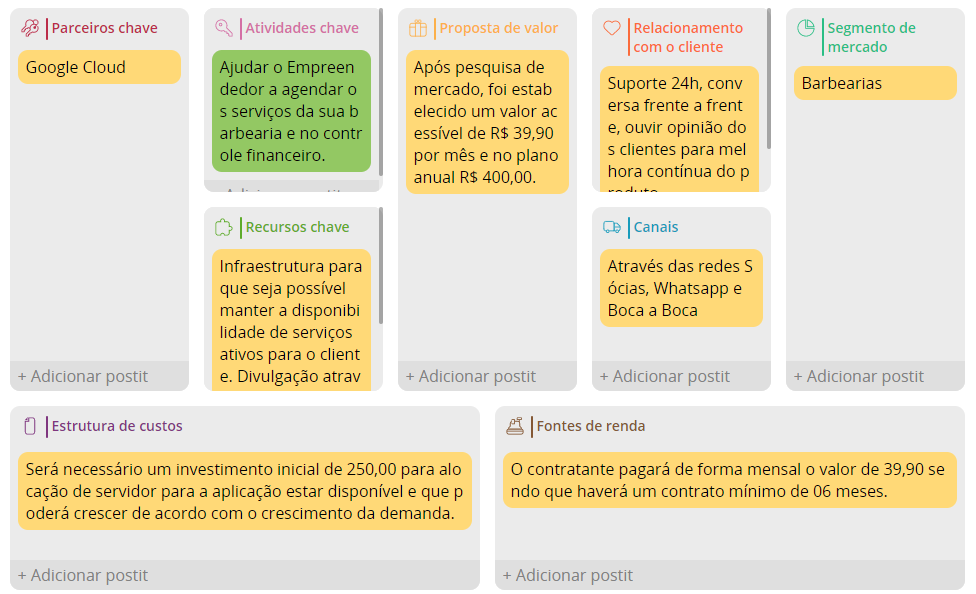
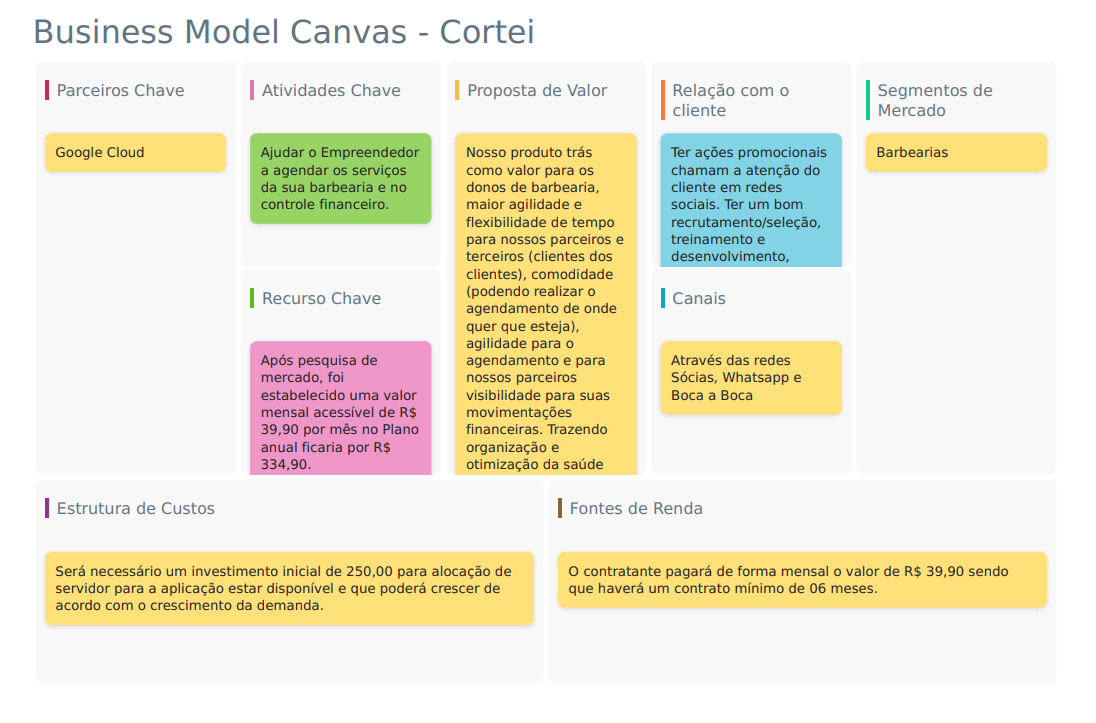
Atualização cortei

diff --git a/index.html b/index.html
@@ -44,6 +44,9 @@
                     <li class="nav-item">
                         <a class="nav-link" href="#businessModel">Business Model Canvas</a>
                     </li>
+                    <li class="nav-item">
+                        <a class="nav-link" href="#businessProgression">Progressão de Negócio</a>
+                    </li>
                 </ul>
             </div>
         </div>
@@ -57,41 +60,34 @@
         </div>      
     </header><!-- End of Page Header -->    
     
-    <!-- About Section -->
-    <section id="about">
-        <!-- Container -->
-        <div class="container">
-            <!-- About wrapper -->
-            <div class="about-wrapper">
+    <section id="about"><!-- About Section -->
+        <div class="container"><!-- Container -->
+            <div class="about-wrapper"><!-- About wrapper -->
                 <div class="after"><h1>Sobre nós</h1></div>
                 <div class="content">
                     <h5 class="title mb-3">Como surgiu o projeto Cortei?</h5>
-                    <!-- row -->
-                    <div class="row">
+                    <div class="row"><!-- row -->
                         <div class="col">
-                            <p>O Projeto surgiu da idéia de suprir a necessidade de atender aos pequenos empreendedores, mais precisamente os barbeiros de bairros.</p>
-                            <p><b>Onde na grande maioria das vezes não tem condições ao iniciarem seus negócios, de investirem em tecnologia que possa auxiliar seus processos no dia a dia.</b></p>
-                            <p><b>E qual a finalidade do projeto?</b></p>
-                            <p>A finalidade do projeto é atender os barbeiros de bairro, onde eles possam ter acesso à tecnologia para melhor atender seus clientes e seu negócio.</p>
+                            <p>O Projeto surgiu a partir de uma conversa entre cliente e barbeiro, onde o barbeiro diz sentir falta de algo mais tecnológico que o facilitasse em suas demandas diárias como: "agendamento mais dinâmico, ele não precisaria parar para fazer anotações de horários, isso sempre acaba gerando perca de tempo, e de um controle sobre suas próprias finanças, algo mais visual que ao bater o olho, já teria noção de como está sendo seu faturamento".</p>
+                            <p>Sabendo disso, fomos avaliar outros profissionais da área e tivemos a mesma base de informações, contudo surgiu a ideia de podermos criar uma aplicação que abrange todos esses pontos.</p>
+                            <!--<-p><b>Onde na grande maioria das vezes não tem condições ao iniciarem seus negócios, de investirem em tecnologia que possa auxiliar seus processos no dia a dia.</b></p>-->
                         </div>
                         <div class="col">
+                            <p><b>E qual a finalidade do projeto?</b></p>
+                            <p>A finalidade do projeto é atender profissionais de pequenas barbearias de bairro, onde eles possam ter acesso à tecnologia para melhor atender seus clientes e seu negócio.</p>
                             <p><b>E como funciona o cortei e quais suas funcionalidades?</b></p>
-                            <p>O Cortei é uma aplicação onde o barbeiro poderá disponibilizar para seus clientes um App onde seus clientes poderão realizar agendamento de serviços na sua barbearia, e também contará com um sistema financeiro para que possa gerenciar todo o fluxo de caixa de sua barbearia, desde a um simples corte de cabelo, até o gerenciamento completo do fluxo de caixa, onde mostrará seu saldo mensal, despesas e faturamento.</p>
+                            <p>O Cortei é uma aplicação web e mobile onde o barbeiro poderá disponibilizar para seus clientes um App onde poderão realizar agendamento de serviços na sua barbearia, e também contará com um sistema financeiro para que possa gerenciar todo o fluxo de caixa do seu negócio, onde mostrará seu saldo mensal, despesas e faturamento.</p>
                             <p>Quer saber mais sobre o Cortei? Então fique conosco e navegue pelas nossas páginas.</p>
                         </div>
                     </div><!-- End of Row -->                   
-                </div>
+                </div><!-- End content -->
             </div><!-- End of About Wrapper -->         
         </div>  <!-- End of Container-->        
      </section><!--End of Section -->
 
-
-    <!-- section -->
-    <section id="features">
-        <!-- Container -->
-        <div class="container">
-            <!-- row -->
-            <div class="row justify-content-between align-items-center">
+    <section id="features"><!-- section -->
+        <div class="container"><!-- Container -->
+            <div class="row justify-content-between align-items-center"><!-- row -->
                 <div class="col-md-6">
                     <div class="img-wrapper">
                         <div class="after"></div>
@@ -102,17 +98,13 @@
                     <h6 class="title mb-3">Plataforma Web para gerenciamento dos Agendamentos.</h6>
                     <p>Conforme imagem ao lado, esta é a tela de login da plataforma onde o barbeiro poderá acompanhar toda sua agenda, onde os clientes que possuem o app e agendarem um serviço na barbearia, irá aparecer nesta plataforma.</p>
                 </div>
-            </div>
-            <!-- End of Row -->
-        </div>  
-        <!-- End of Container -->
+            </div><!-- End of Row -->
+        </div><!-- End of Container -->
     </section><!-- End of Section -->
-    <!-- section -->
-    <section id="cad">
-        <!-- Container -->
-        <div class="container">
-            <!-- row -->
-            <div class="row justify-content-between align-items-center">
+
+    <section id="cad"><!-- section -->
+        <div class="container"><!-- Container -->
+            <div class="row justify-content-between align-items-center"><!-- row -->
                 <div class="col-md-6">
                     <div class="img-wrapper">
                         <div class="after"></div>
@@ -123,17 +115,13 @@
                     <h6 class="title mb-3">Cadastro do barbeiro</h6>
                     <p>Nesta tela é onde é feito o cadastro do barbeiro, para que o mesmo tenha acesso ao sistema.</p>
                 </div>
-            </div>
-            <!-- End of Row -->
-        </div>
-        <!-- End of Container -->
+            </div><!-- End of Row -->
+        </div><!-- End of Container -->
     </section><!-- End of Section -->
-    <!-- section -->
-    <section id="agenda">
-        <!-- Container -->
-        <div class="container">
-            <!-- row -->
-            <div class="row justify-content-between align-items-center">
+
+    <section id="agenda"><!-- section -->
+        <div class="container"><!-- Container -->
+            <div class="row justify-content-between align-items-center"><!-- row -->
                 <div class="col-md-6">
                     <div class="img-wrapper">
                         <div class="after"></div>
@@ -144,16 +132,13 @@
                     <h6 class="title mb-3">Agenda do barbeiro</h6>
                     <p>Ao logar na aplicação, o barbeiro será direcionado para esta tela onde o mesmo poderá ter acesso a toda sua agenda, onde irá filtrar pelo dia, caso ele deseje acessar sua agenda de determinado dia, é só clicar em uma data no calendário a sua direita e irá carregar toda a agenda com o nome dos clientes que realizaram um agendamento de serviço ou corte na sua barbearia.</p>
                 </div>
-            </div>
-            <!-- End of Row -->
-        </div>
-        <!-- End of Container -->
+            </div><!-- End of Row -->
+        </div><!-- End of Container -->
     </section><!-- End of Section -->
-    <section id="app">
-        <!-- Container -->
-        <div class="container">
-            <!-- row -->
-            <div class="row justify-content-between align-items-center">
+
+    <section id="app"><!-- Section -->
+        <div class="container"><!-- Container -->
+            <div class="row justify-content-between align-items-center"><!-- row -->
                 <div class="col-md-6">
                     <div class="img-wrapper">
                         <div class="after"></div>
@@ -165,16 +150,13 @@
                 <p>Como vocês podem ver, este é nosso lindo app</p>
                 <p>Nesta tela inicial, seu cliente poderá realizar o login no aplicativo para que possa realizar o agendamento ou serviço desejado.</p>
                 </div>
-            </div>
-            <!-- End of Row -->
-        </div>
-        <!-- End of Container -->
+            </div><!-- End of Row -->
+        </div><!-- End of Container -->
     </section><!-- End of Section -->
-    <section>
-        <!-- Container -->
-        <div class="container">
-            <!-- row -->
-            <div class="row justify-content-between align-items-center">
+
+    <section><!-- Section -->
+        <div class="container"><!-- Container -->
+            <div class="row justify-content-between align-items-center"><!-- row -->
                 <div class="col-md-6">
                     <div class="img-wrapper">
                         <div class="after"></div>
@@ -185,16 +167,13 @@
                     <h6 class="title mb-3">Tela de cadastro.</h6>
                     <p>Na tela de cadastro, seus clientes poderão realizar o cadastro no seu aplicativo e poderá realizar agendamento dos serviços conforme desejar.</p>
                 </div>
-            </div>
-            <!-- End of Row -->
-        </div>
-        <!-- End of Container -->
+            </div><!-- End of Row -->
+        </div><!-- End of Container -->
     </section><!-- End of Section -->
-    <section>
-        <!-- Container -->
-        <div class="container">
-            <!-- row -->
-            <div class="row justify-content-between align-items-center">
+
+    <section><!-- Section -->
+        <div class="container"><!-- Container -->
+            <div class="row justify-content-between align-items-center"><!-- row -->
                 <div class="col-md-6">
                     <div class="img-wrapper">
                         <div class="after"></div>
@@ -205,16 +184,13 @@
                     <h6 class="title mb-3">Lista de barbeiros</h6>
                     <p>Após seu cliente efetuar o login, irá abrir essa tela onde irá listar todos os barbeiros cadastrados na sua barbearia, poderá ser mais de 1 barbeiro listado.</p>
                 </div>
-            </div>
-            <!-- End of Row -->
-        </div>
-        <!-- End of Container -->
+            </div><!-- End of Row -->
+        </div><!-- End of Container -->
     </section><!-- End of Section -->
-    <section>
-        <!-- Container -->
-        <div class="container">
-            <!-- row -->
-            <div class="row justify-content-between align-items-center">
+
+    <section><!-- Section -->
+        <div class="container"><!-- Container -->
+            <div class="row justify-content-between align-items-center"><!-- row -->
                 <div class="col-md-6">
                     <div class="img-wrapper">
                         <div class="after"></div>
@@ -225,16 +201,13 @@
                     <h6 class="title mb-3">Agendamento</h6>
                     <p>Ao selecionar um barbeiro, irá cair nesta tela onde você irá escolher uma data e um horário para agendamento de um serviço na barbearia.</p>
                 </div>
-            </div>
-            <!-- End of Row -->
-        </div>
-        <!-- End of Container -->
+            </div><!-- End of Row -->
+        </div><!-- End of Container -->
     </section><!-- End of Section -->
-    <section id="financeiro">
-        <!-- Container -->
-        <div class="container">
-            <!-- row -->
-            <div class="row justify-content-between align-items-center">
+
+    <section id="financeiro"><!-- Section -->
+        <div class="container"><!-- Container -->
+            <div class="row justify-content-between align-items-center"><!-- row -->
                 <div class="col-md-6">
                     <div class="img-wrapper">
                         <div class="after"></div>
@@ -245,16 +218,13 @@
                     <h6 class="title mb-3">Sistema financeiro</h6>
                     <p>O sistema financeiro do Cortei foi implementado para que os donos de barbearia tenham um controle financeiro melhor do que antigamente como o papel e a caneta, é um sistema onde o dono da barbearia pode cadastrar as informações sobre produtos, serviços e débitos periódicos para que ele tenha a maior tranquilidade no fluxo de caixa e sendo assim poder investir e saber os seus gastos trazendo assim uma boa saúde financeira.</p>
                      </div>
-            </div>
-            <!-- End of Row -->
-        </div>
-        <!-- End of Container -->
+            </div><!-- End of Row -->
+        </div><!-- End of Container -->
     </section><!-- End of Section -->
-    <section>
-        <!-- Container -->
-        <div class="container">
-            <!-- row -->
-            <div class="row justify-content-between align-items-center">
+
+    <section><!-- Section -->
+        <div class="container"><!-- Container -->
+            <div class="row justify-content-between align-items-center"><!-- row -->
                 <div class="col-md-6">
                     <div class="img-wrapper">
                         <div class="after"></div>
@@ -265,16 +235,13 @@
                     <h6 class="title mb-3">Período financeiro</h6>
                     <p>O período financeiro refere-se ao tempo que deseja ser cadastrado, podendo ser programado da melhor maneira que convem. Ex.: quisenal, mensal, bimestral entre outros períodos.</p>
                 </div>
-            </div>
-            <!-- End of Row -->
-        </div>
-        <!-- End of Container -->
+            </div><!-- End of Row -->
+        </div><!-- End of Container -->
     </section><!-- End of Section -->
-    <section>
-        <!-- Container -->
-        <div class="container">
-            <!-- row -->
-            <div class="row justify-content-between align-items-center">
+
+    <section><!-- Section -->
+        <div class="container"><!-- Container -->
+            <div class="row justify-content-between align-items-center"><!-- row -->
                 <div class="col-md-6">
                     <div class="img-wrapper">
                         <div class="after"></div>
@@ -285,16 +252,13 @@
                     <h6 class="title mb-3">Carteira</h6>
                     <p>O cadastro da carteira pode ser feito opcionalmente, pode-se cadastrar desde um cartão de crédito, até uma conta bancária. Informações relevantes da conta e ou cartão de crédito ajudarão ao usuário a melhor se programar, frente as despesas futuras.</p>
                 </div>
-            </div>
-            <!-- End of Row -->
-        </div>
-        <!-- End of Container -->
+            </div><!-- End of Row -->
+        </div><!-- End of Container -->
     </section><!-- End of Section -->
-    <section>
-        <!-- Container -->
-        <div class="container">
-            <!-- row -->
-            <div class="row justify-content-between align-items-center">
+
+    <section><!-- Sectoion -->
+        <div class="container"><!-- Container -->
+            <div class="row justify-content-between align-items-center"><!-- row -->
                 <div class="col-md-6">
                     <div class="img-wrapper">
                         <div class="after"></div>
@@ -305,16 +269,14 @@
                     <h6 class="title mb-3">Movimentos do período</h6>
                     <p>Toda movimentação e histórico de pagamento será exibido para o usuário, ajudando-o visualmente de maneira detalhada à entender toda movimentação ocorrida do período cadastrado.</p>
                 </div>
-            </div>
-            <!-- End of Row -->
-        </div>
-        <!-- End of Container -->
+            </div><!-- End of Row -->
+        </div><!-- End of Container -->
     </section><!-- End of Section -->
-    <section id="businessModel">
-        <!-- Container -->
-        <div class="container">
-            <!-- row -->
-            <div class="row justify-content-between align-items-center">
+
+
+    <section id="businessModel"><!-- Section -->
+        <div class="container"><!-- Container -->
+            <div class="row justify-content-between align-items-center"><!-- row -->
                 <div class="col-md-6">
                     <div class="img-wrapper">
                         <div class="after"></div>
@@ -323,14 +285,30 @@
                 </div>
                 <div class="col-md-5">
                     <h6 class="title mb-3">Business Model Canvas</h6>
+                    <p>Nosso produto trás como valor para os donos de barbearia, maior agilidade e flexibilidade de tempo para nossos parceiros e terceiros (clientes dos nossos clientes), comodidade (podendo realizar o agendamento de onde quer que esteja), agilidade para o agendamento e para nossos parceiros visibilidade para suas movimentações financeiras. Trazendo assim uma organização financeira.</p>
                 </div>
-            </div>
-            <!-- End of Row -->
-        </div>
-        <!-- End of Container -->
+            </div><!-- End of Row -->
+        </div><!-- End of Container -->
     </section><!-- End of Section -->
 
+    <section id="businessModel"><!-- Section -->
+        <div class="container"><!-- Container -->
+            <div class="row justify-content-between align-items-center"><!-- row -->
+                <div class="col-md-6">
+                    <div class="img-wrapper">
+                        <div class="after"></div>
+                        <img src="assets/imgs/progressao_de_negocio.jpg" class="w-100" alt="About Us">
+                    </div>
+                </div>
+                <div class="col-md-5">
+                    <h6 class="title mb-3">Progressão de negócio</h6>
+                    <p></p>
+                </div>
+            </div><!-- End of Row -->
+        </div><!-- End of Container -->
+    </section><!-- End of Section -->
     <!-- Testmonial Section -->
+
     <section class="text-center pt-5" id="testmonial">
         <!-- Container -->
         <div class="container">
